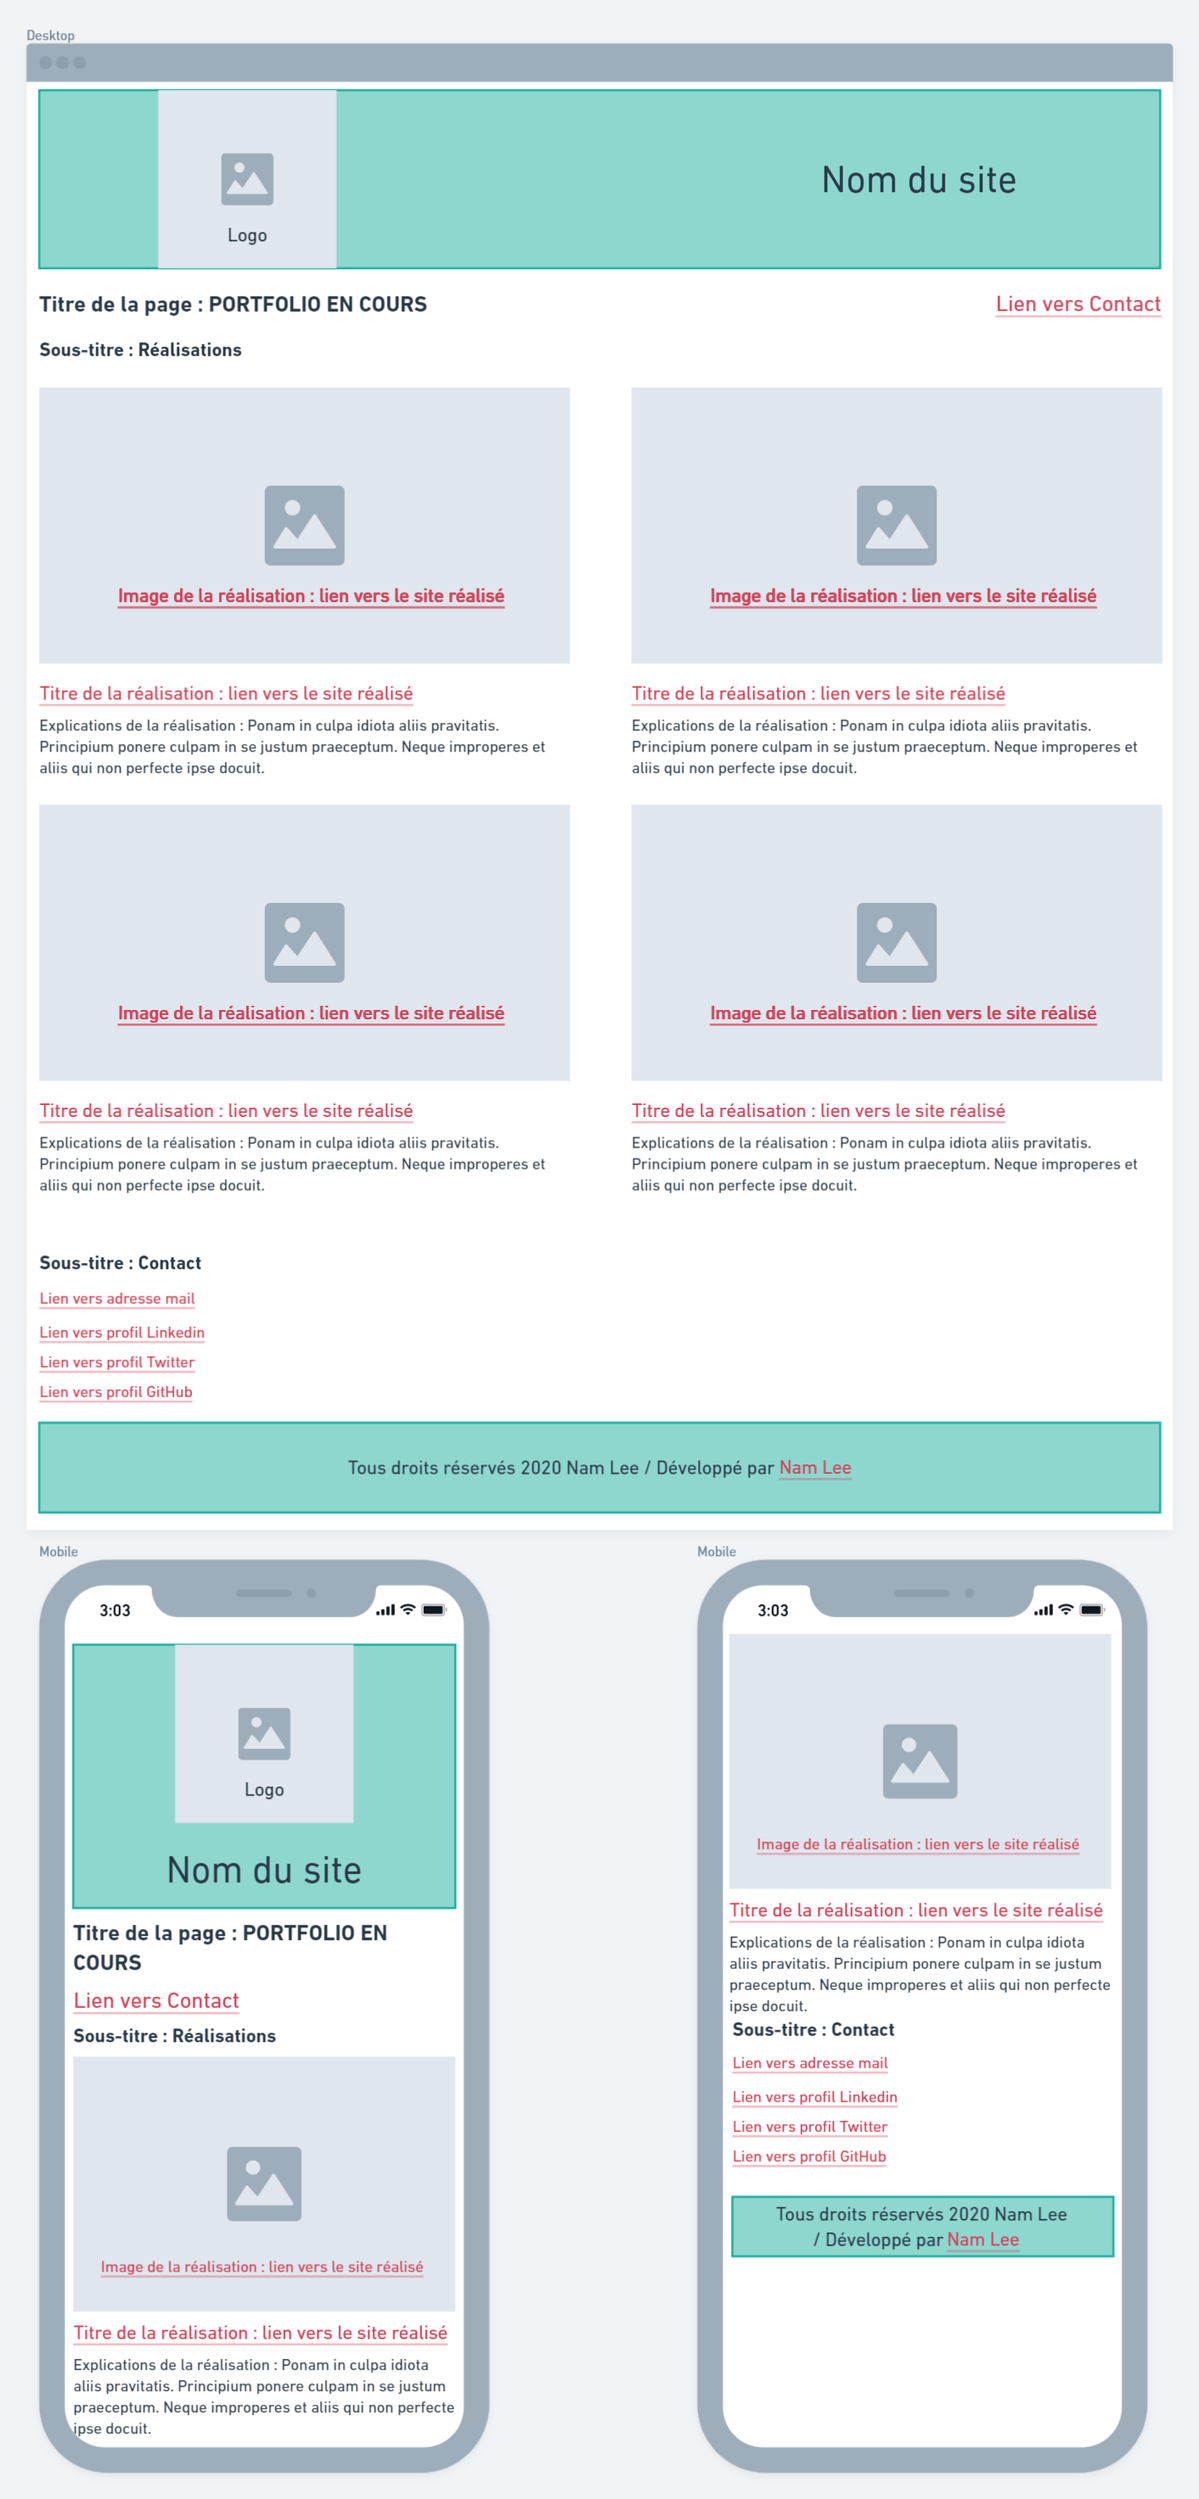
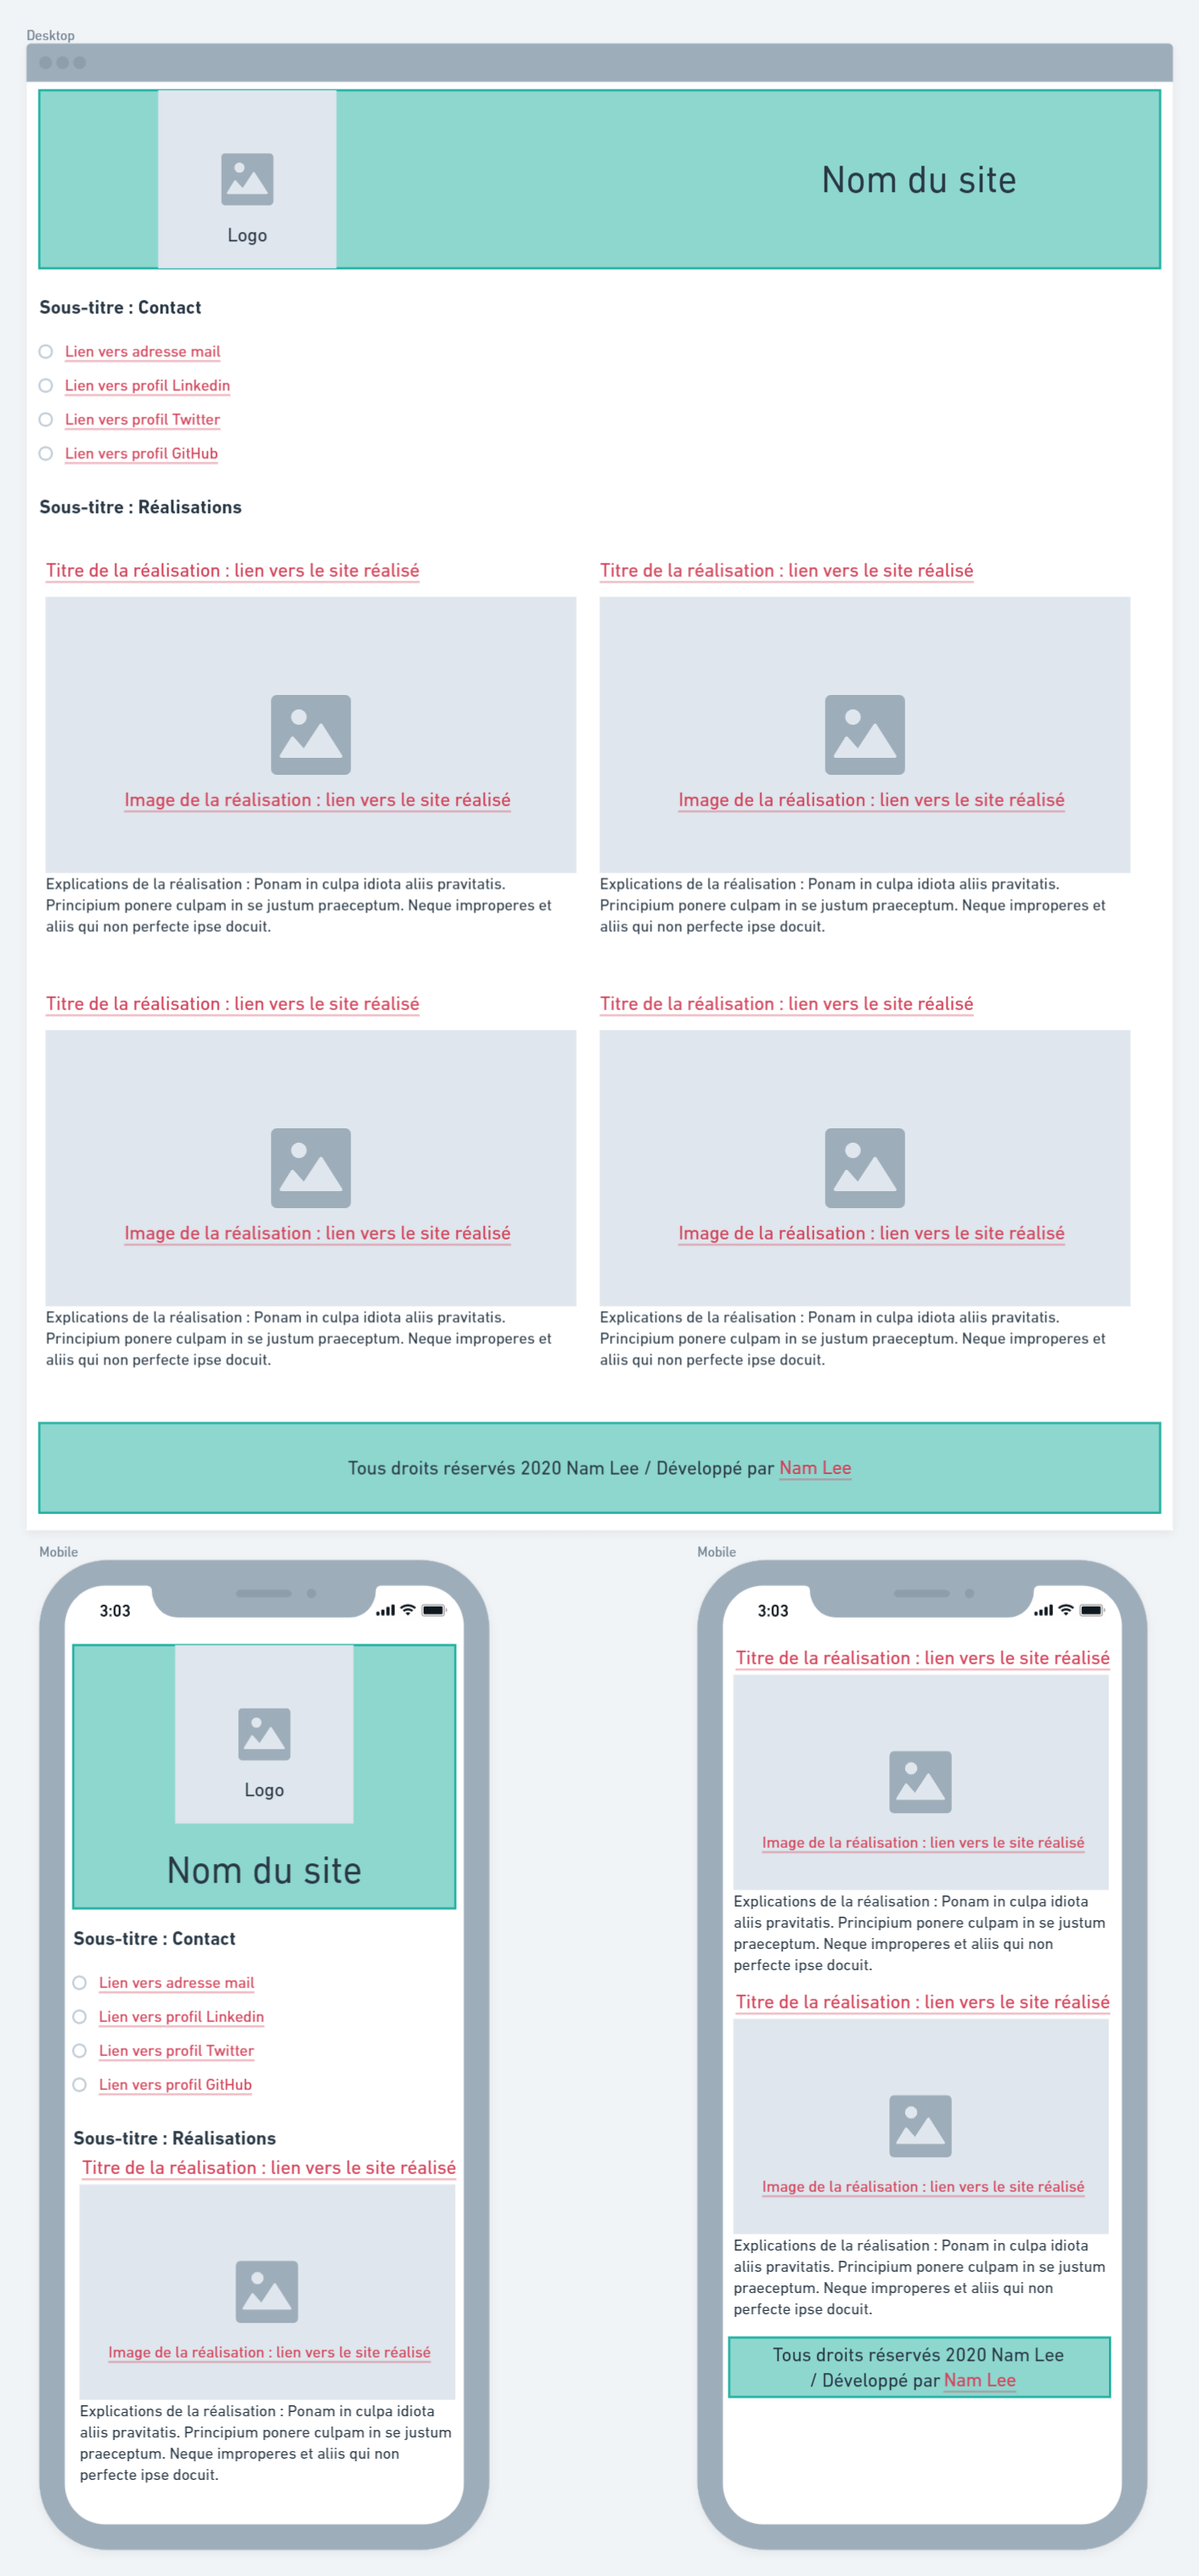
change text for sock generator and add wireframes

diff --git a/index.html b/index.html
@@ -121,7 +121,7 @@
                             src="./assets/images/socks.jpg"
                             alt="miniature du site socks">
                     </a>
-                    <p>Site de générateur de patrons de chaussettes pour le tricot (Composants Bootsrap - MCV - Altorouter -Dispatcher). Pour tester : courriel = test@test.com / mot de passe = test)</p>
+                    <p>Site de générateur de patrons de chaussettes pour le tricot (Composants Bootsrap - MCV - Altorouter -Dispatcher).</p>
                 </div>
             </div>
 
